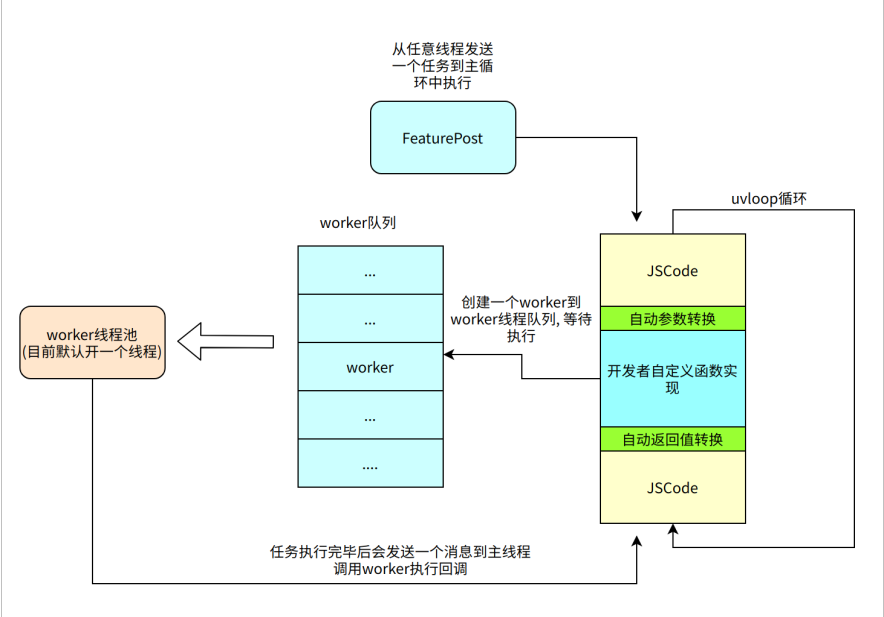
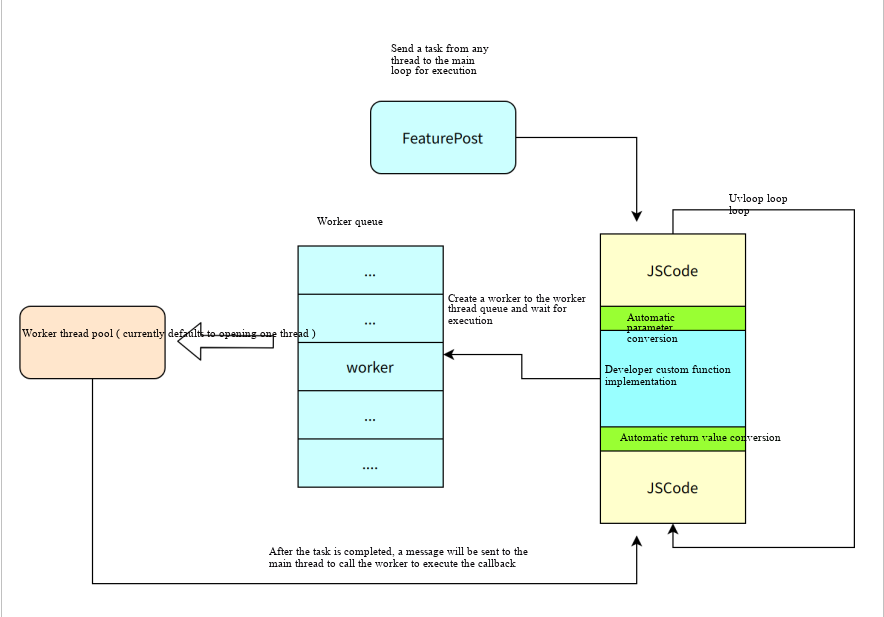
docs: translate figures in en/api and prune low-value figures
Replace Chinese figures under docs/en/api/ with English translations so
the English documentation no longer embeds Chinese-only images.

Figures translated (docs/en/api/...):
- framework/feature/figures/JIDL.png
- framework/feature/figures/feature_static.png
- framework/feature/figures/feature_instance.png
- framework/feature/figures/Asynchronous_model.png
- framework/telephony/figures/TapiWork.png

Figures pruned (removed in both en/ and zh-cn/) and expressed inline via
concise text or tables, which carries the same information more compactly:
- feature_framework.png: use a short bullet list of the architecture layers.
- feature_life.png: use a table documenting each lifecycle event.
- feature_running.png: use a bullet list describing Module / Prototype /
  Instance semantics.
- callback_promise_manager.png: describe the internal ID/table design inline.
- quickapp/basic_structure.png: remove the Overall Architecture section,
  whose information is already covered by Related Documentation links.

diff --git a/en/api/framework/feature/feature_framework.md b/en/api/framework/feature/feature_framework.md
@@ -6,7 +6,12 @@
 
 In QuickApp development, new capabilities need to be added to QuickApps, and these capabilities are written in C/C++. The Feature framework is a framework, SDK, and toolset that helps system developers extend functionality for QuickApps.
 
-<img src="./figures/feature_framework.png" alt="Feature Framework Architecture Diagram" style="zoom: 80%;" />
+The overall architecture is organized into the following layers, from top to bottom:
+
+- **JS Layer** — QuickApp (user JS code)
+- **Framework Layer** — QuickApp Framework (together with the QuickApp Engine) and Feature Framework
+- **Native Layer** — Feature implementations written in C/C++
+- **OS Layer** — openvela
 
 ## Feature Framework Capabilities
 
@@ -41,13 +46,24 @@ From a system perspective, the Feature concepts:
 
 #### Runtime Concept Model
 
-Each Feature can associate Native data, with different associated content. The runtime concept model is as follows:
+Each Feature can associate Native data, with different associated content:
 
-<img src="./figures/feature_running.png" alt="Feature Runtime Concept Model" style="zoom: 67%;" />
+- **Module** is purely internal to the Native side and is never exposed to the JS environment.
+- **Prototype** appears in JS as a `JSObject`, but cannot be used directly from JS. On the Native side, it holds `prototype Native data` whose lifetime matches the app.
+- **Instance** also appears in JS as a `JSObject`, and on the Native side holds `instance Native data` whose lifetime matches the instance itself.
 
 #### Feature Lifecycle
 
-<img src="./figures/feature_life.png" alt="Feature Lifecycle Diagram" style="zoom:80%;" />
+The Feature lifecycle consists of six events, listed below in the order they occur:
+
+| Event                                    | Triggered When                                                        | Notes                                                                                            |
+| ---------------------------------------- | --------------------------------------------------------------------- | ------------------------------------------------------------------------------------------------ |
+| **`onRegister`** (Module Registration)   | When the system starts up, or when `FeatureManagerRegister` is called | Do not perform long / complex tasks during registration, otherwise system startup will slow down |
+| **`onCreate`** (Prototype Creation)      | The first time the app uses the Feature                               | Do not expect this function to be called at app startup                                          |
+| **`onRequire`** (Instance Creation)      | When the app calls `require` for this Feature                         | Feature instance initialization can be done here                                                 |
+| **`onDettach`** (Instance Destruction)   | When a Feature instance is destroyed (page exit, app exit, etc.)      | Feature teardown is non-deterministic; do not defer recycling of temporary data to this point    |
+| **`onDestroy`** (Prototype Destruction)  | When the app exits                                                    | App-wide global data is recycled here                                                            |
+| **`onUnregister`** (Module Unregistered) | When the Feature is unregistered                                      | Do not rely on this callback; it may never be called                                             |
 
 ### Feature Framework Interface Capabilities
 
@@ -71,23 +87,25 @@ The Feature framework helps developers create Feature Prototypes and Instances.
 
 From JS to Native, the Feature framework provides parameter conversion capabilities, converting JS parameters to plain parameters. The following table shows the basic conversion capabilities:
 
-| JS Type             | C Type                   | Description                                                                                                                          |
-| ------------------- | ------------------------ | ------------------------------------------------------------------------------------------------------------------------------------ |
-| number/boolean      | int, float, double, bool | JS number types exist as floating point. Based on JIDL description, they can be converted to compatible types like int, float. Converting to int/bool causes loss of decimal part |
-| string              | FtString                 | `const char*` typedef                                                                                                                |
-| object              | struct pointer / FtAny pointer | If a struct is defined in JIDL, converts to the corresponding C struct pointer; if defined as object/any type in JIDL, defined as FtAny pointer |
-| array               | FtArray pointer          | Converts to a C structure FtArray                                                                                                    |
-| function            | FtCallbackId             | Converts to an integer representing CallbackId                                                                                       |
-| promise             | FtPromiseId              | Converts to an integer representing PromiseId                                                                                        |
+| JS Type        | C Type                         | Description                                                                                                                                                                       |
+| -------------- | ------------------------------ | --------------------------------------------------------------------------------------------------------------------------------------------------------------------------------- |
+| number/boolean | int, float, double, bool       | JS number types exist as floating point. Based on JIDL description, they can be converted to compatible types like int, float. Converting to int/bool causes loss of decimal part |
+| string         | FtString                       | `const char*` typedef                                                                                                                                                             |
+| object         | struct pointer / FtAny pointer | If a struct is defined in JIDL, converts to the corresponding C struct pointer; if defined as object/any type in JIDL, defined as FtAny pointer                                   |
+| array          | FtArray pointer                | Converts to a C structure FtArray                                                                                                                                                 |
+| function       | FtCallbackId                   | Converts to an integer representing CallbackId                                                                                                                                    |
+| promise        | FtPromiseId                    | Converts to an integer representing PromiseId                                                                                                                                     |
 
 ---
 
 - Pointer objects have built-in reference counting and can be released via `FeatureDupValue` and `FeatureFreeValue`.
 - Pointers passed through parameters do not need additional release.
 
-The following diagram shows the management mechanism for Callbacks and Promises:
+The Feature framework internally manages Callback and Promise objects, hiding the implementation details:
 
-<img src="./figures/callback_promise_manager.png" alt="Callback and Promise Management Mechanism" style="zoom: 50%;" />
+- Feature developers receive opaque IDs (`FtCallbackId` / `FtPromiseId`) instead of direct references to JS Function or Promise objects.
+- The real JS Function and Promise instances are held inside the Feature framework (not visible to developers), together with reference counting.
+- IDs act as indices into the internal tables, and the framework is responsible for reclaiming them.
 
 The Feature framework achieves two goals by hiding details:
 

diff --git a/zh-cn/api/framework/feature/feature_framework.md b/zh-cn/api/framework/feature/feature_framework.md
@@ -6,7 +6,12 @@
 
 在快应用（Quick App）开发中，需要为快应用增加一些新的能力，这些能力通过 C/C++ 语言编写。Feature 框架是一个帮助系统开发者为快应用扩展功能的框架、SDK 以及工具集。
 
-<img src="./figures/feature_framework.png" alt="Feature 框架整体架构图" style="zoom: 80%;" />
+整体架构从上到下分为以下几层：
+
+- **JS 层** —— 快应用（用户编写的 JS 代码）
+- **框架层** —— 快应用框架（及快应用引擎）、Feature 框架
+- **Native 层** —— Feature 的 C/C++ 实现
+- **操作系统层** —— openvela
 
 ## 二、Feature 框架能力
 
@@ -41,13 +46,24 @@ Feature 有 3 层概念：
 
 #### 运行时概念模型
 
-每个 Feature 都可以关联 Native 数据，所关联的内容有所区别。运行时概念模型如下：
+每个 Feature 都可以关联 Native 数据，所关联的内容有所区别：
 
-<img src="./figures/feature_running.png" alt="Feature 运行时概念模型" style="zoom: 67%;" />
+- **Module** 完全位于 Native 侧，不暴露给 JS 环境。
+- **Prototype** 在 JS 中以 `JSObject` 形式呈现，但不能直接在 JS 中使用。在 Native 侧持有 `prototype Native 数据`，生命周期与 APP 一致。
+- **Instance** 在 JS 中也以 `JSObject` 形式呈现，在 Native 侧持有 `instance Native 数据`，生命周期与 Instance 本身一致。
 
 #### Feature 的生命周期
 
-<img src="./figures/feature_life.png" alt="Feature 生命周期示意图" style="zoom:80%;" />
+Feature 的生命周期包含 6 个事件，按发生顺序依次如下：
+
+| 事件                                | 触发时机                                                     | 注意事项                                               |
+| ----------------------------------- | ------------------------------------------------------------ | ------------------------------------------------------ |
+| **`onRegister`**（Module 注册）     | 系统启动时调用，或者调用 `FeatureManagerRegister` 函数时触发 | 注册时不可执行长复杂任务，否则会导致系统启动变慢       |
+| **`onCreate`**（Prototype 创建）    | APP 第一次使用 Feature 时调用                                | 不可期望该函数在 APP 启动时调用                        |
+| **`onRequire`**（Instance 创建）    | APP Require 该 Feature 时调用                                | 可在此做 Feature 实例初始化                            |
+| **`onDettach`**（Instance 销毁）    | Feature 实例被销毁时（Page 退出、APP 退出等）                | Feature 退出有一定不确定性，临时数据不能拖延到此刻回收 |
+| **`onDestroy`**（Prototype 销毁）   | APP 退出时调用                                               | 此处 APP 全局数据回收                                  |
+| **`onUnregister`**（Module 被注销） | Feature 注销时调用                                           | 不可依赖此回调，该回调可能不会被调用                   |
 
 ### 2、Feature 框架提供的接口能力
 
@@ -85,9 +101,11 @@ Feature 框架帮助开发者创建 Feature 的 Prototype 和 Instance。
 - 指针对象自带引用计数，可以通过 `FeatureDupValue` 和 `FeatureFreeValue` 来释放。
 - 通过参数传递的指针，不需要额外释放。
 
-下图展示了对 Callback 和 Promise 的管理机制：
+Feature 框架内部对 Callback 和 Promise 做了统一管理，隐藏实现细节：
 
-<img src="./figures/callback_promise_manager.png" alt="Callback 和 Promise 管理机制" style="zoom: 50%;" />
+- Feature 开发者拿到的是不透明的整数 ID（`FtCallbackId` / `FtPromiseId`），而不是 JS Function 或 Promise 对象本身。
+- 真正的 JS Function 和 Promise 对象由 Feature 框架内部（开发者不可见）持有，并带有引用计数。
+- ID 作为索引指向内部表，资源的回收由框架负责。
 
 Feature 框架通过隐藏细节，达到两个目的：
 

diff --git a/en/api/framework/quickapp/basic.md b/en/api/framework/quickapp/basic.md
@@ -15,10 +15,6 @@ This document introduces the overall design, implementation approach, and techni
 - [Xiaomi openvela QuickApp Development Manual](https://iot.mi.com/vela/quickapp/zh/content/intro.html) — Complete development guide for application developers
 - [Feature Framework API](../feature/index.md) — Native extension APIs for QuickApp (JS and C/C++ interop)
 
-## Overall Architecture
-
-![QuickApp Framework Architecture](figures/basic_structure.png)
-
 ## Build Configuration
 
 The application framework itself has few configuration items, but has many dependencies. Among the dependencies, the renderer has the most requirements. For specific configuration, please refer to the documentation provided by the graphics team.

diff --git a/zh-cn/api/framework/quickapp/basic.md b/zh-cn/api/framework/quickapp/basic.md
@@ -15,10 +15,6 @@ openvela 快应用（QuickApp）框架（以下简称"应用框架"），是 ope
 - [小米 openvela 快应用开发手册](https://iot.mi.com/vela/quickapp/zh/content/intro.html) — 面向应用开发者的完整开发指南
 - [Feature 框架 API](../feature/index.md) — 快应用的 Native 扩展 API（JS 与 C/C++ 互调）
 
-## 整体架构
-
-![快应用框架整体架构图](figures/basic_structure.png)
-
 ## 编译配置
 
 应用框架本身的配置项不多，但依赖项较多。依赖项中渲染器的依赖较多，具体配置请参考图形组提供的文档。
